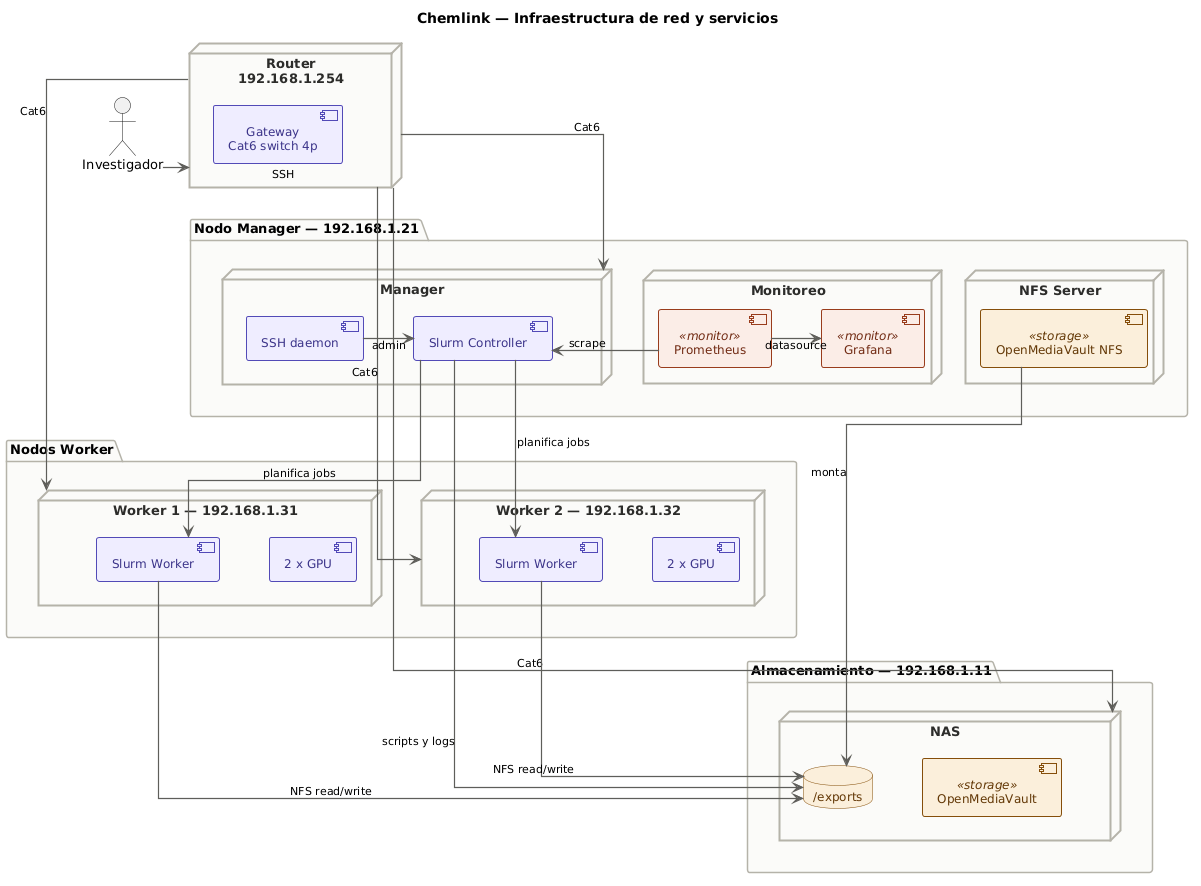
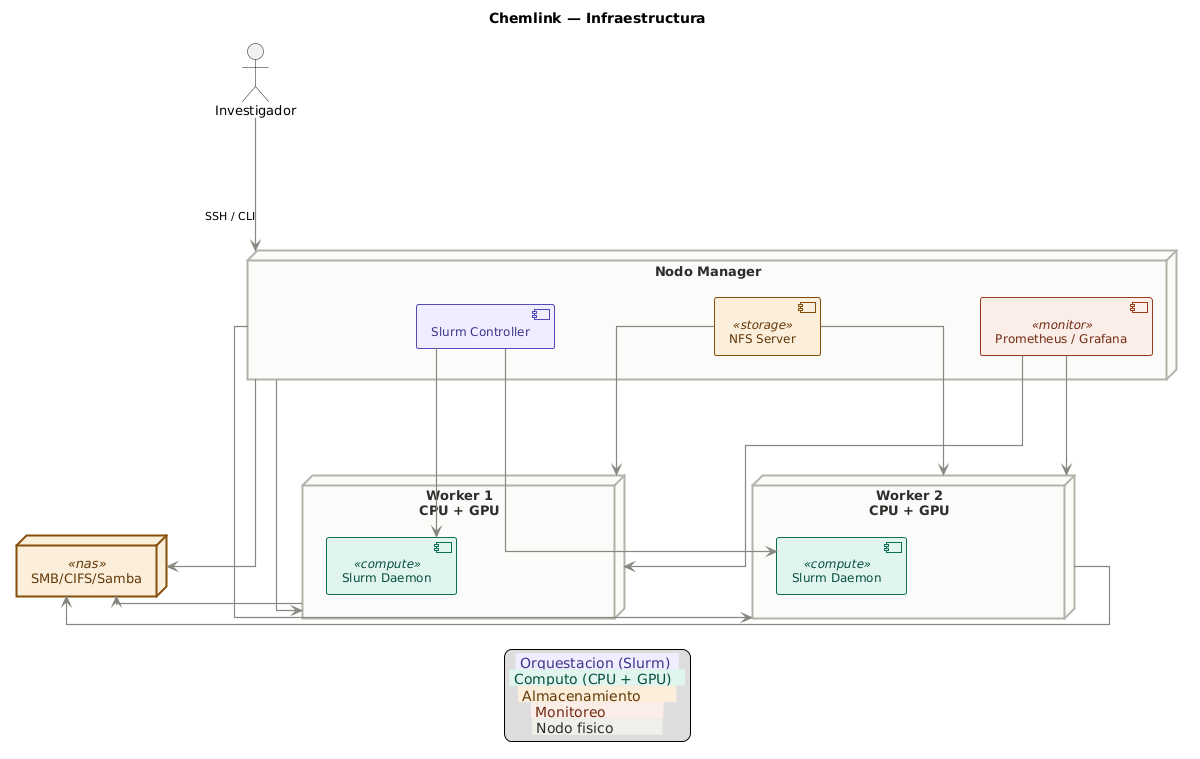
fix: update diagram and description in Informe.md for improved clarity on HPC cluster topology

diff --git a/docs/Informe.md b/docs/Informe.md
@@ -295,7 +295,7 @@ El resultado final del flujo dinámico incluye estadísticas estructurales, pane
 
 ![Diagrama de infraestructura del clúster HPC](../images/diagrams/diagrama-05-infraestructura-cluster.png)
 
-**Diagrama 5.** Topología física del clúster HPC del laboratorio, mostrando la interconexión entre el nodo manager (que aloja el servidor NFS), los nodos workers (que montan `/nfs/chemlink`), el nodo NAS OpenMediaVault (SMB/CIFS/Samba para almacenamiento personal), el switch de red y los servicios de monitoreo Prometheus/Grafana.
+**Diagrama 5.** Topología física del clúster HPC del laboratorio: un investigador accede mediante SSH/CLI al nodo manager centralizado (que aloja el Slurm Controller, servidor NFS y servicios Prometheus/Grafana), el cual coordina dos nodos workers equipados con CPU y GPU que ejecutan tareas mediante el Slurm Daemon; todos los nodos montan el almacenamiento compartido `/nfs/chemlink` y se conectan a través de un router de red, mientras que el NAS con SMB/CIFS/Samba proporciona almacenamiento personal independiente para los investigadores.
 
 ---
 